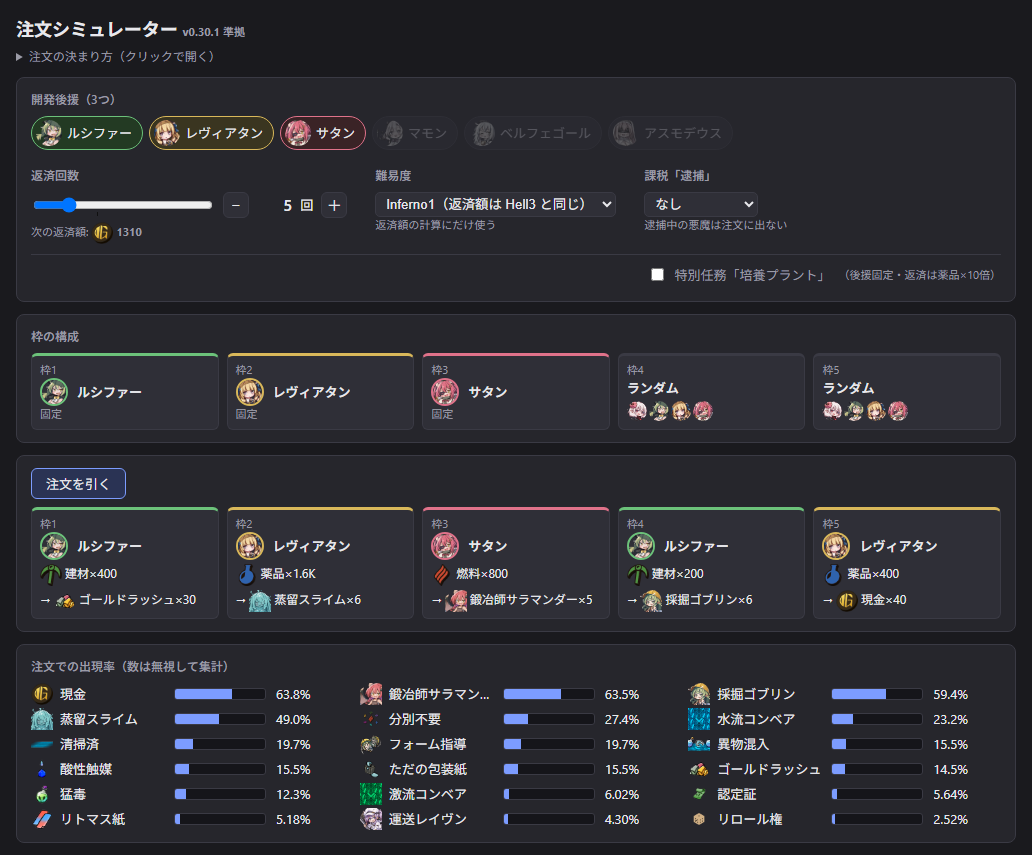
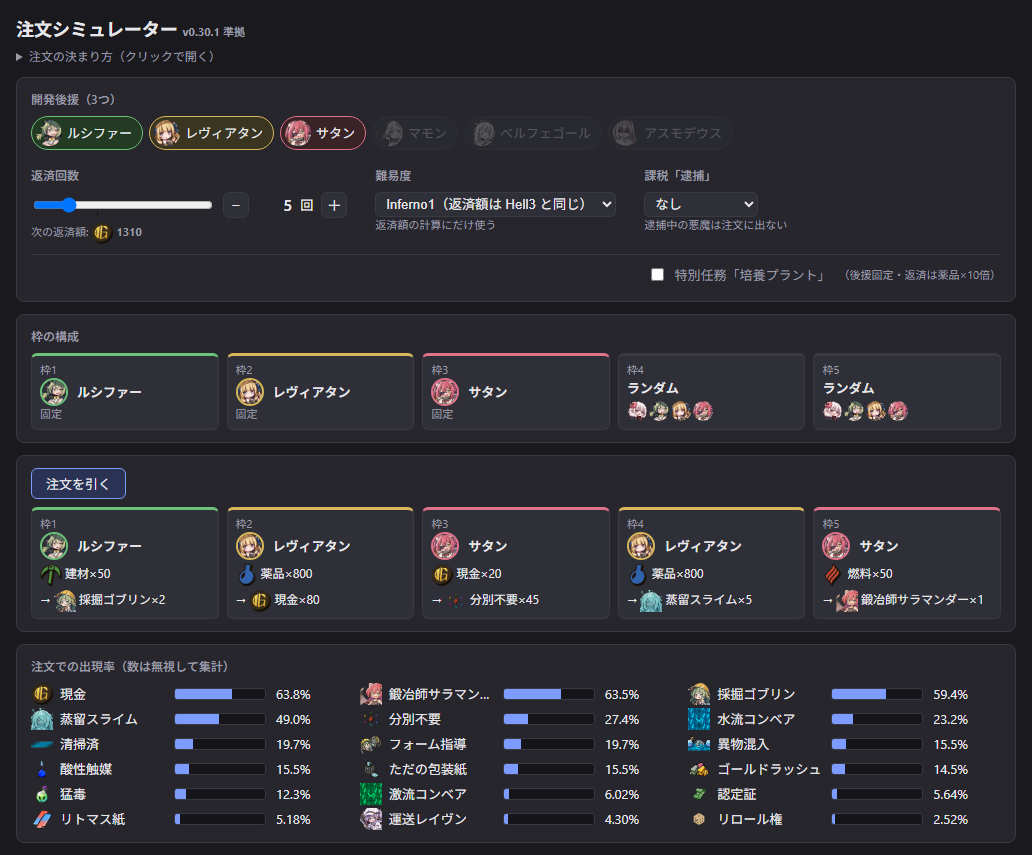
v3.5.0: ミスリルの買取を枠ごとに計算（検査証封入 +3）

diff --git a/index.html b/index.html
@@ -433,7 +433,7 @@ const SAMPLE = {
       sell:[{name:"燃料",qty:2000},{name:"現金",qty:500}], slots:2, unlock:"サタン「重金属と軽金属」(Epic)" },
     { id:"mythril", name:"ミスリル", familiar:"サラマンダー", cat:"アイテム",
       output:100, time:12, materials:[{name:"鉄インゴット",qty:8},{name:"水銀",qty:8},{name:"金インゴット",qty:8},{name:"燃料",qty:160}],
-      sell:[{name:"現金",qty:3}], slots:3, unlock:"サタン「重金属と軽金属」(Epic)" },
+      sell:[{name:"現金",qty:1},{name:"現金",qty:1},{name:"現金",qty:1}], slots:3, unlock:"サタン「重金属と軽金属」(Epic)" },
     { id:"orichalcum", name:"オリハルコン", familiar:"サラマンダー", cat:"アイテム",
       output:1, time:12, materials:[{name:"ミスリル",qty:100},{name:"アダマンタイト",qty:1},{name:"燃料",qty:10000}],
       sell:[{name:"全資源",qty:10000},{name:"燃料",qty:10000},{name:"現金",qty:10000}], slots:3, unlock:"サタン「最も軽く最も重い金属」(Legendary)" },
@@ -463,7 +463,7 @@ const SAMPLE = {
       sell:[{name:"現金",qty:1}], unlock:"ベルフェゴール「スリ」(Rare)" },
     { id:"mythril_rsf", name:"ミスリル", familiar:"ウィッチ", cat:"アイテム",
       output:5, time:15, materials:[{name:"刻印コバルト",qty:1},{name:"刻印ルビー",qty:1},{name:"刻印アメジスト",qty:1},{name:"刻印ジェード",qty:1}],
-      sell:[{name:"現金",qty:3}], slots:3, unlock:"ベルフェゴール「ロイヤルストレートフラッシュ」(Epic)" },
+      sell:[{name:"現金",qty:1},{name:"現金",qty:1},{name:"現金",qty:1}], slots:3, unlock:"ベルフェゴール「ロイヤルストレートフラッシュ」(Epic)" },
 
      
     { id:"buff_cobalt", name:"刻印コバルト", familiar:"ウィッチ", cat:"バフ",
@@ -559,7 +559,7 @@ const SAMPLE = {
     { id:"tr_summonernoneitemruby", name:"魔力", familiar:"ウィッチ", cat:"アイテム", output:1, time:1, materials:[{name:"ルビー",qty:1}], sell:[], board:"ベルフェゴール", boardLv:"1", unlock:"依頼看板：ベルフェゴール（コモン）" },
     { id:"tr_summonernoneitemamethyst", name:"魔力", familiar:"ウィッチ", cat:"アイテム", output:1, time:1, materials:[{name:"アメジスト",qty:1}], sell:[], board:"ベルフェゴール", boardLv:"1", unlock:"依頼看板：ベルフェゴール（コモン）" },
     { id:"tr_summoneradamantite", name:"アダマンタイト", familiar:"ウィッチ", cat:"アイテム", output:10, time:15, materials:[{name:"鍛冶師サラマンダー",qty:1},{name:"採掘ゴブリン",qty:1},{name:"マジックペレット",qty:1}], sell:[{name:"燃料",qty:2000},{name:"現金",qty:500}], slots:2, board:"ベルフェゴール", boardLv:"4", unlock:"依頼看板：ベルフェゴール（エピック）" },
-    { id:"tr_summonermythril", name:"ミスリル", familiar:"ウィッチ", cat:"アイテム", output:10, time:15, materials:[{name:"蒸留スライム",qty:1},{name:"運送レイヴン",qty:1},{name:"マジックペレット",qty:1}], sell:[{name:"現金",qty:3}], slots:3, board:"ベルフェゴール", boardLv:"4", unlock:"依頼看板：ベルフェゴール（エピック）" },
+    { id:"tr_summonermythril", name:"ミスリル", familiar:"ウィッチ", cat:"アイテム", output:10, time:15, materials:[{name:"蒸留スライム",qty:1},{name:"運送レイヴン",qty:1},{name:"マジックペレット",qty:1}], sell:[{name:"現金",qty:1},{name:"現金",qty:1},{name:"現金",qty:1}], slots:3, board:"ベルフェゴール", boardLv:"4", unlock:"依頼看板：ベルフェゴール（エピック）" },
     { id:"tr_summonergempowderintervalmagic", name:"水晶玉", familiar:"ウィッチ", cat:"バフ", output:1, time:60, materials:[{name:"宝石粉",qty:1}], sell:[], board:"ベルフェゴール", boardLv:"2", unlock:"依頼看板：ベルフェゴール（アンコモン）" },
     { id:"tr_summonemercuryintervalmagic", name:"水晶玉", familiar:"ウィッチ", cat:"バフ", output:1, time:60, materials:[{name:"水銀",qty:1}], sell:[], board:"ベルフェゴール", boardLv:"2", unlock:"依頼看板：ベルフェゴール（アンコモン）" },
     { id:"tr_summonesalefam2", name:"派遣実績", familiar:"ウィッチ", cat:"バフ", output:1, time:15, materials:[{name:"採掘ゴブリン",qty:2}], sell:[], board:"ベルフェゴール", boardLv:"3", unlock:"依頼看板：ベルフェゴール（レア）" },
@@ -2159,14 +2159,16 @@ function renderItems(){
           ? `<span class="it-chip" title="${m.name}: 1回あたり ${fmt(m.val)} 個（基礎 ${fmt(m.base)}）${mul!==1?`／表示は配置${n}台ぶんの合計`:""}">${icon(m.name)}${rateCell("material",rb,rv,true)}</span>`
           : `<span class="it-chip" title="${m.name} 消費 ${fmtRate(rv)}/s（基礎 ${fmtRate(rb)}）">${icon(m.name)}${valCell("material",m.base,m.val,"",true)}</span>`;
       }).join(""):`<span class="base">なし</span>`;
-      const sellChips=r.sell.length?r.sell.map(s=>{
+      
+      const sellMerged=[]; r.sell.forEach(s=>{ const e=sellMerged.find(x=>x.name===s.name); if(e){ e.base+=s.base; e.val+=s.val; } else sellMerged.push({name:s.name, base:s.base, val:s.val}); });
+      const sellChips=sellMerged.length?sellMerged.map(s=>{
         const rb=s.base*item.output/item.time*mul, rv=s.val*r.output/r.time*mul;
         return showMatRate
           ? `<span class="it-chip" title="${s.name}: 1回あたり ${fmt(s.val)}（基礎 ${fmt(s.base)}）× 製造数${fmt(r.output)}${mul!==1?`／表示は配置${n}台ぶんの合計`:""}">${icon(s.name)}${rateCell("sell",rb,rv,true)}</span>`
           : `<span class="it-chip" title="${s.name} 取得 ${fmtRate(rv)}/s（基礎 ${fmtRate(rb)}）">${icon(s.name)}${valCell("sell",s.base,s.val,"",true)}</span>`;
       }).join(""):`<span class="base">なし</span>`;
       const matMap={}; r.materials.forEach(m=>matMap[m.name]=m);
-      const shared=r.sell.filter(s=>matMap[s.name]);
+      const shared=sellMerged.filter(s=>matMap[s.name]);
       const netChips=shared.length?shared.map(s=>{
         const m=matMap[s.name];
         const nb=(s.base*item.output-m.base)/item.time*mul, nv=(s.val*r.output-m.val)/r.time*mul;
@@ -2288,7 +2290,7 @@ document.querySelectorAll(".tab").forEach(b=>b.onclick=()=>{
 });
 
  
-const CALC_VER="3.4.1", CALC_GAME_VER="0.30.1", CALC_BUILD="2026-10-26";   
+const CALC_VER="3.5.0", CALC_GAME_VER="0.30.1", CALC_BUILD="2026-10-30";   
 try{ const ve=document.getElementById("calc-ver");
   if(ve) ve.textContent=`v${CALC_VER}／ゲーム ver ${CALC_GAME_VER} 準拠${CALC_BUILD.indexOf("__")===0?"（dev）":`（build ${CALC_BUILD}）`}`;
 }catch(e){}

diff --git a/CHANGELOG.md b/CHANGELOG.md
@@ -5,6 +5,16 @@
 バージョンの読み方: **MAJOR**=ツールの作り替え・互換切れ・
 **MINOR**=計算結果の数値が変わる修正・**PATCH**=数値が変わらない修正（表示・文言）。
 
+## v3.5.0（2026-10-30） — ミスリルの買取を枠ごとに計算
+
+**計算結果が変わる更新**（ミスリルに効く契約の数値）
+
+- ミスリルの買取は「現金×1」の枠が3つ。これまで1枠「現金3」にまとめていたため、枠ごとに効く契約がゲームより小さく出ていた
+  - **検査証封入**: 3枠それぞれ +1 ＝ **+3**（これまで +1）
+  - **過剰梱包**: 枠ごとの現金で判定（合算の3や6では効かない。検査証封入→圧縮のあと枠6≧5 で +2×3枠）
+  - **圧縮**: 枠ごと ×3（合計は変わらず）
+- 画面の買取チップは今までどおり合算して1つに表示
+
 ## 注文シミュレーター v1.0.0（2026-10-30） — 新規
 
 計算機とは別ページ・別の版番号（タグ `order-v1.0.0`）。計算機本体は v3.4.1 のまま。
